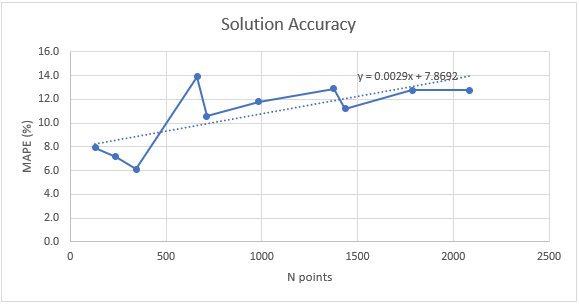
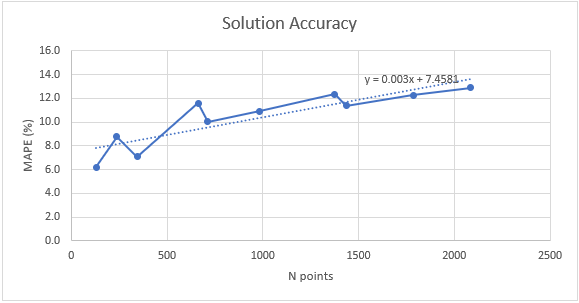
Update TSP Solver
The cache of the nodes was removed from the solution to improve precision performance (to the detriment of time complexity).

diff --git a/code/TSP_Solver/src/tsp/algorithm/SOMAlgorithm.java b/code/TSP_Solver/src/tsp/algorithm/SOMAlgorithm.java
@@ -8,7 +8,6 @@
 
 package tsp.algorithm;
 
-import java.util.Hashtable;
 import java.util.Random;
 
 import tsp.gui.Environment;
@@ -33,7 +32,6 @@ public class SOMAlgorithm extends TspAlgorithm
     private Random rnd = new Random();
     
     // Other variables
-    private Hashtable<Integer, Integer> cache;
     private boolean display;
     private long elapsedTime;
     
@@ -50,7 +48,6 @@ public class SOMAlgorithm extends TspAlgorithm
         this.doublePoint = null;
         this.graph = null;
         this.nPoints = 0;        
-        this.cache = null;
         this.display = b;
         this.elapsedTime = 0l;
     }
@@ -60,7 +57,6 @@ public class SOMAlgorithm extends TspAlgorithm
     {
         doublePoint = points;
         nPoints = points.length;
-        cache = new Hashtable<Integer, Integer>();
         
         setInitialPoints();
     }
@@ -164,31 +160,22 @@ public class SOMAlgorithm extends TspAlgorithm
     	int winnerNode = -1;
     	int targetNode = rnd.nextInt(nPoints);
     	
-    	if (cache.containsKey(targetNode)) {
-    		winnerNode = cache.get(targetNode);
-    		cache.remove(targetNode);
-    	}
-    	else
-    	{
-    		double winnerDist = Double.MAX_VALUE;
-    		double localDist = 0.0d;
-    		Node node = graph.getLast();
-    		
-    		// Search for the node closest to that impulse
-    		do
-    		{
-    			localDist = getEuclideanDistance(doublePoint[targetNode], node);
-    			if (localDist < winnerDist)
-    			{
-    				winnerDist = localDist;
-    				winnerNode = node.keyName;
-    			}
-    			node = node.next;
-    		}
-    		while (node != graph.getLast());
-    		
-    		cache.put(targetNode, winnerNode);
-    	}
+		double winnerDist = Double.MAX_VALUE;
+		double localDist = 0.0d;
+		Node node = graph.getLast();
+		
+		// Search for the node closest to that impulse
+		do
+		{
+			localDist = getEuclideanDistance(doublePoint[targetNode], node);
+			if (localDist < winnerDist)
+			{
+				winnerDist = localDist;
+				winnerNode = node.keyName;
+			}
+			node = node.next;
+		}
+		while (node != graph.getLast());
     	
     	// Move the winning node and give it its prize
     	graph.get(winnerNode).victories++;
@@ -237,28 +224,22 @@ public class SOMAlgorithm extends TspAlgorithm
     	
     	for (int i = 0; i < nPoints; i++)
     	{
-    		if (cache.containsKey(i) && !graph.get(cache.get(i)).assigned) {
-    			key = cache.get(i);
-    		}
-    		else
-    		{
-    			node = graph.getLast();
-    			distUP = Double.MAX_VALUE;
-    			do
-    			{
-    				if (!node.assigned)
-    				{
-    					dist = getEuclideanDistance(doublePoint[i], node);
-    					if (dist < distUP)
-    					{
-    						distUP = dist;
-    						key = node.keyName;
-    					}
-    				}
-    				node = node.next;
-    			}
-    			while (node != graph.getLast());
-    		}
+			node = graph.getLast();
+			distUP = Double.MAX_VALUE;
+			do
+			{
+				if (!node.assigned)
+				{
+					dist = getEuclideanDistance(doublePoint[i], node);
+					if (dist < distUP)
+					{
+						distUP = dist;
+						key = node.keyName;
+					}
+				}
+				node = node.next;
+			}
+			while (node != graph.getLast());
     		
     		// Update
     		node = graph.get(key);

diff --git a/README.md b/README.md
@@ -34,18 +34,18 @@ Next, the results of 10 different TSP files using the SOM algorithm implementati
 
 | TSP File | # Points | Best Tout | Curr Tour | MAPE (%) | Elapsed Time (ms) |
 | -- | -- | -- | -- | -- | -- |
-| XQF131  | 131  |  564.00 | 608.8120  | 7.9454  |   146 |
-| XQG237  | 237  | 1019.00 | 1092.1591 | 7.1795  |   387 |
-| PMA343  | 343  | 1368.00 | 1451.8500 | 6.1294  |   726 |
-| XQL662  | 662  | 2513.00 | 2862.8253 | 13.9206 |  2411 |
-| RBX711  | 711  | 3115.00 | 3444.4560 | 10.5764 |  2788 |
-| PBD984  | 984  | 2797.00 | 3126.9053 | 11.7950 |  5264 |
-| DKA1376 | 1376 | 4666.00 | 5267.2621 | 12.8860 |  9926 |
-| DJA1436 | 1436 | 5257.00 | 5846.3651 | 11.2111 | 10834 |
-| DJC1785 | 1785 | 6115.00 | 6895.1806 | 12.7585 | 17214 |
-| DCB2086 | 2086 | 6600.00 | 7444.1573 | 12.7903 | 24017 |
+| XQF131  |  131 |  564 |   598.915 |  6.1906 |   245 | 
+| XQG237  |  237 | 1019 | 1108.2272 |  8.7563 |   714 | 
+| PMA343  |  343 | 1368 | 1464.7101 |  7.0695 |  1571 | 
+| XQL662  |  662 | 2513 | 2804.3936 | 11.5954 |  4941 | 
+| RBX711  |  711 | 3115 | 3428.1617 | 10.0533 |  5806 | 
+| PBD984  |  984 | 2797 | 3102.7567 | 10.9316 | 10225 | 
+| DKA1376 | 1376 | 4666 | 5242.9936 | 12.3659 | 19565 | 
+| DJA1436 | 1436 | 5257 | 5855.2285 | 11.3797 | 21390 | 
+| DJC1785 | 1785 | 6115 | 6864.0603 | 12.2496 | 32591 | 
+| DCB2086 | 2086 | 6600 | 7452.5379 | 12.9172 | 44726 | 
 
-With a weighted average MAPE of 11.9445 %. Below, the solution accuracy in one chart:
+With a weighted average MAPE of 11.5946 %. Below, the solution accuracy in one chart:
 
 ![solution accuracy](https://raw.githubusercontent.com/ansegura7/TSP/master/images/results1.PNG)
 
@@ -54,13 +54,14 @@ And the time complexity of the solution is:
 ![time complexity](https://raw.githubusercontent.com/ansegura7/TSP/master/images/results2.PNG)
 
 ## Program Execution Rules
-The project has an executable file in the 'jar' folder.
+The repository has an executable file in the **jar** folder. The .JAR program must be run with Java 8 or higher.
 
 Execution example:
 ``` console
     java -jar TSP_Solver-v0.5.jar
 ```
-The .JAR program must be run with Java 8 or higher.
+
+The project was developed in the Eclipse IDE, and is located in the **code** folder.
 
 ## Contributing and Feedback
 Any kind of feedback/criticism would be greatly appreciated (algorithm design, documentation, improvement ideas, spelling mistakes, etc...).
